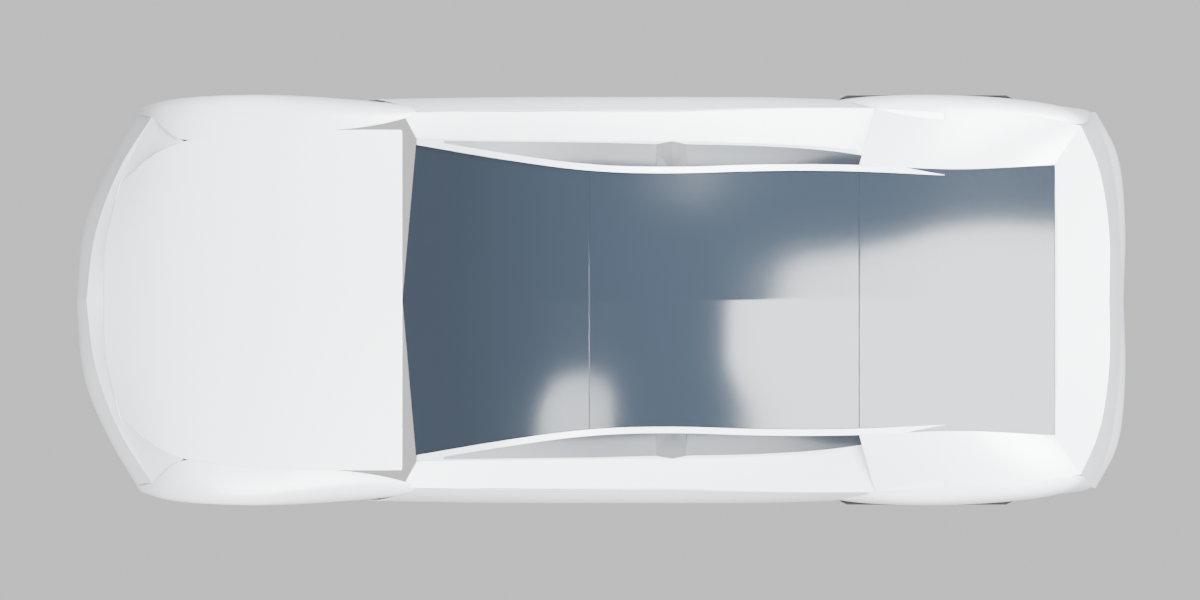
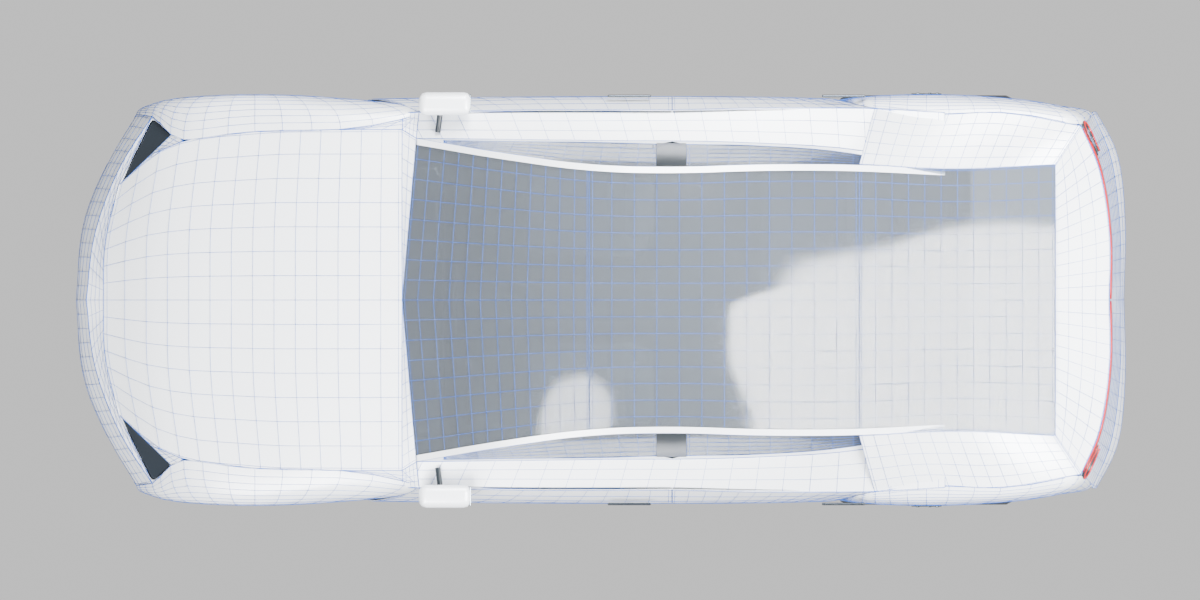
10-materials-presentation

diff --git a/scripts/presentation.py b/scripts/presentation.py
@@ -1,0 +1,51 @@
+"""Studio presentation and real evaluated mesh-edge wire overlay."""
+import sys
+from pathlib import Path
+sys.path.insert(0,str(Path(__file__).resolve().parent))
+from project import *
+
+for ob in list(bpy.data.objects):
+    if ob.name.startswith('WIRE_') or ob.name=='STUDIO_GROUND':bpy.data.objects.remove(ob,do_unlink=True)
+for col in ('00_REFERENCE','01_CURVE_CAGE'):
+    for ob in coll(col).objects: ob.hide_render=True;ob.hide_set(True)
+wire=mat('MAT_WIREFRAME',(.012,.09,.42),.5)
+wire.node_tree.nodes.get('Principled BSDF').inputs['Emission Color'].default_value=(.006,.04,.16,1)
+wire.node_tree.nodes.get('Principled BSDF').inputs['Emission Strength'].default_value=.15
+glass=bpy.data.materials['MAT_GLASS'];p=glass.node_tree.nodes.get('Principled BSDF')
+p.inputs['Base Color'].default_value=(.42,.47,.53,1);p.inputs['Transmission Weight'].default_value=.9;p.inputs['Metallic'].default_value=0
+selected=['HOOD','FENDER_FRONT','FENDER_REAR','DOOR_FL','DOOR_FR','DOOR_RL','DOOR_RR','BUMPER_FRONT','BUMPER_REAR','REAR_HATCH','REAR_HATCH_TOP','PILLAR_C_QUARTER','PILLAR_A_FOOT','NOSE_HOOD_BRIDGE','NOSE_CHEEK','BELTLINE_LEDGE','COWL_TRANSITION','GLASS_WINDSHIELD','GLASS_ROOF','GLASS_REAR','GLASS_FRONT_LEFT','GLASS_FRONT_RIGHT','GLASS_REAR_LEFT','GLASS_REAR_RIGHT']
+for name in selected:
+    source=bpy.data.objects[name]
+    ob=source.copy();ob.data=source.data.copy();coll('03_BODY').objects.link(ob);ob.name='WIRE_'+name
+    for m in list(ob.modifiers):
+        if m.type!='MIRROR':ob.modifiers.remove(m)
+    ob.data.materials.clear();ob.data.materials.append(wire)
+    wrap=ob.modifiers.new('Follow actual refined surface','SHRINKWRAP');wrap.target=source;wrap.wrap_method='NEAREST_SURFACEPOINT';wrap.offset=.0008
+    m=ob.modifiers.new('Real mesh edge overlay','WIREFRAME');m.thickness=.0018;m.offset=1;m.use_replace=True;m.use_boundary=True
+    ob['source_topology_object']=source.name
+    ob['wire_method']='Actual SubD control-mesh quad edges, projected to the source refined surface'
+
+groundmat=mat('MAT_STUDIO_GROUND',(.72,.74,.77),.65)
+bpy.ops.mesh.primitive_plane_add(size=200,location=(0,0,-.012));ground=bpy.context.object;ground.name='STUDIO_GROUND';move(ground,'09_PRESENTATION');ground.data.materials.append(groundmat)
+cam=camera('CAM_3Q',(-7.5,-8,3.2),(0,0,.75),5.6)
+s=bpy.context.scene;s.camera=cam;s.render.engine='CYCLES';s.cycles.samples=48;s.view_settings.view_transform='AgX'
+s['presentation_wire']='Real quad mesh edges; see source_topology_object on each WIRE object'
+for image in bpy.data.images:
+    if image.name.startswith('reference_') or image.name.startswith('REF_CROP_'):
+        image.use_fake_user=True
+        if image.source=='FILE':image.pack()
+for screen in bpy.data.screens:
+    for area in screen.areas:
+        if area.type=='VIEW_3D':
+            area.spaces.active.region_3d.view_perspective='CAMERA'
+            area.spaces.active.overlay.show_overlays=False
+            area.spaces.active.shading.color_type='MATERIAL'
+bpy.data.orphans_purge(do_recursive=True)
+save()
+render('validation/perspective.png','CAM_3Q',1600,1000)
+for ob in bpy.data.objects:
+    if ob.name.startswith('WIRE_'):ob.hide_render=True
+render('validation/perspective_surface.png','CAM_3Q',1600,1000)
+for ob in bpy.data.objects:
+    if ob.name.startswith('WIRE_'):ob.hide_render=False
+print('PRESENTATION_SAVED: real topology overlay and surface-only renders')
